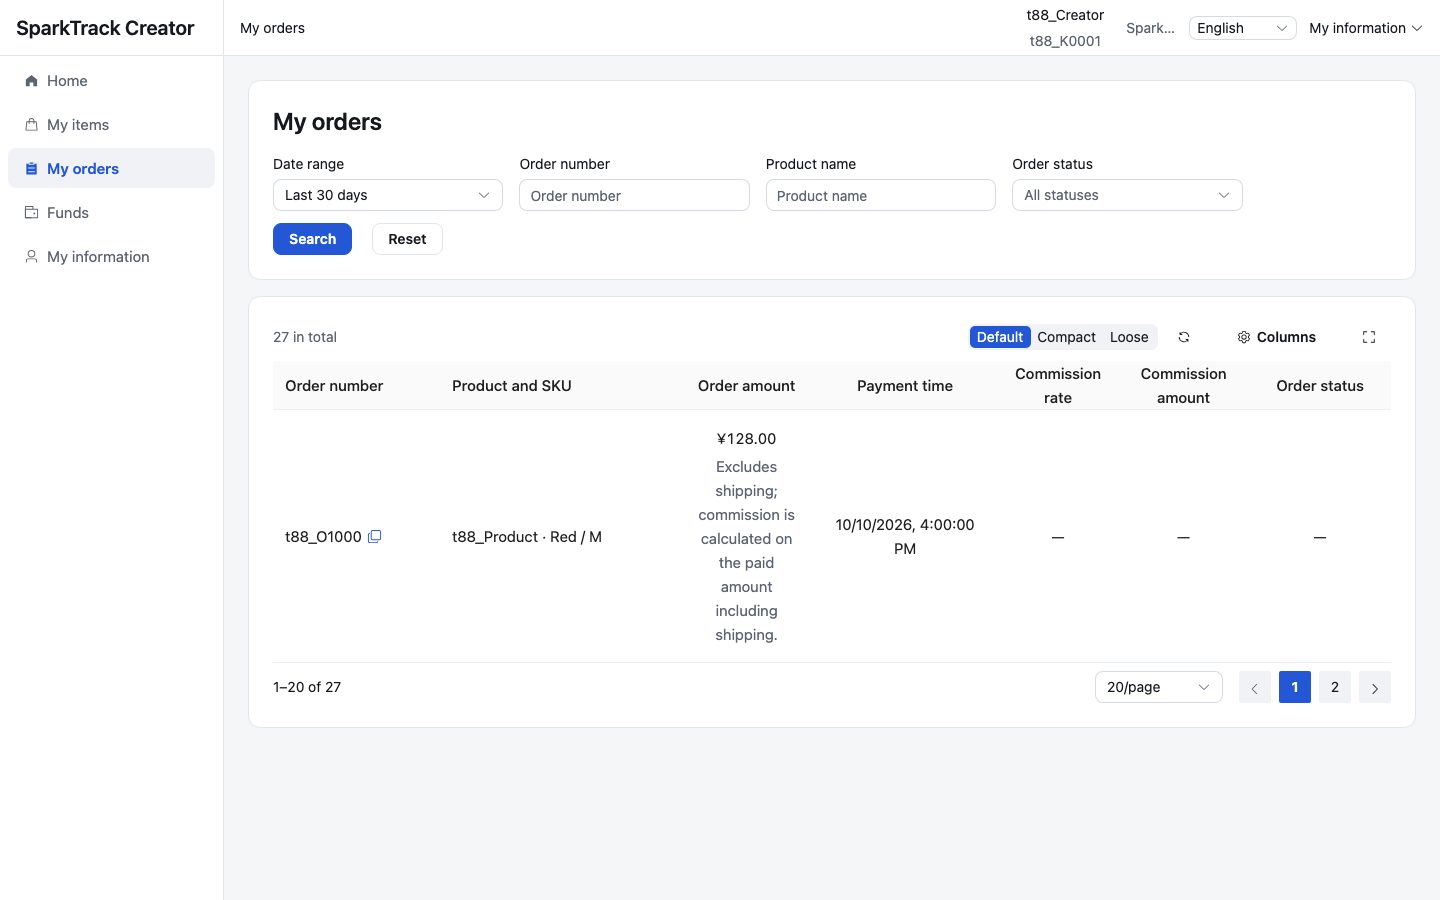
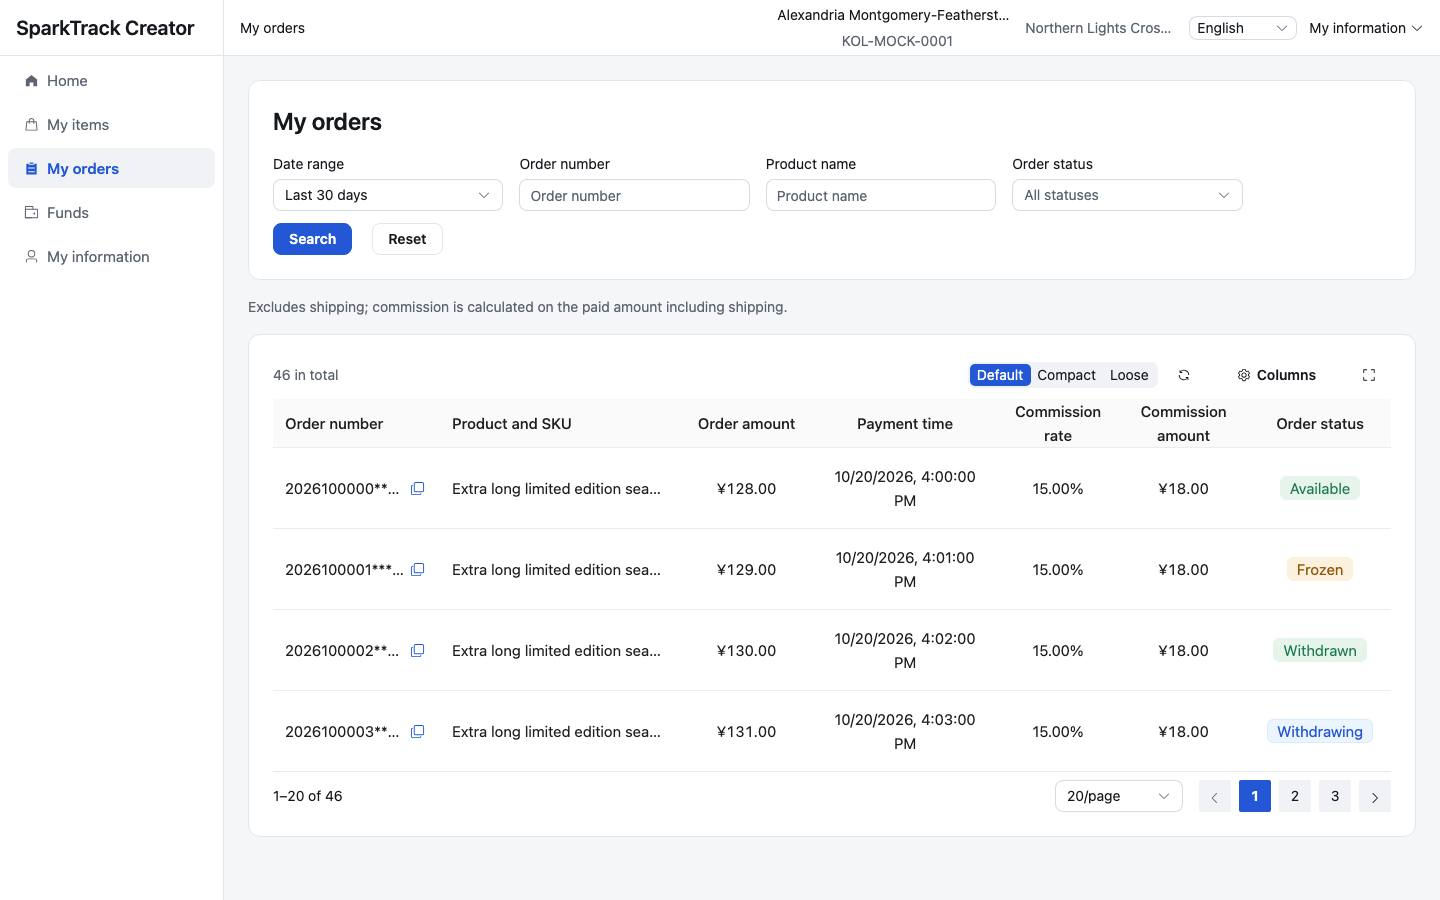
fix(kol): address task 88 review on orders note, header and account
- L-036: show the amount note once above the desktop table instead of in
  every row; phone cards keep theirs.
- L-045: drop NameCode's full width inside the header identity so short
  company names show in full; only the company name gives way when long.
- L-040: move NameCode into the first card under the page title.
- Funds: cover the failed and empty list states with the real DataTable.
- Refresh task 88 screenshots.

diff --git a/kol-portal/src/views/funds/__tests__/index.spec.ts b/kol-portal/src/views/funds/__tests__/index.spec.ts
@@ -4,7 +4,7 @@ import { createPinia } from "pinia";
 import { afterEach, beforeEach, describe, expect, it, vi } from "vitest";
 import * as api from "@/api/creator";
 import { uploadQrFile } from "@/api/payout-account";
-import { i18n } from "@/locales";
+import { enUS, i18n } from "@/locales";
 import { ApiError } from "@/utils/http/error";
 import FundsPage from "../index.vue";
 
@@ -71,19 +71,18 @@ afterEach(() => {
   document.body.innerHTML = "";
 });
 
-async function page() {
+const dataTableStub = {
+  name: "DataTable",
+  props: ["rows"],
+  template: '<div><slot v-for="row in rows" name="cell-amount" :row="row" /></div>'
+};
+
+async function page(options: { realTable?: boolean } = {}) {
   wrapper = mount(FundsPage, {
     attachTo: document.body,
     global: {
       plugins: [ElementPlus, i18n, createPinia()],
-      stubs: {
-        RouterLink: true,
-        DataTable: {
-          name: "DataTable",
-          props: ["rows"],
-          template: '<div><slot v-for="row in rows" name="cell-amount" :row="row" /></div>'
-        }
-      }
+      stubs: { RouterLink: true, ...(options.realTable ? {} : { DataTable: dataTableStub }) }
     }
   });
   await flushPromises();
@@ -97,6 +96,25 @@ async function submit(amount = "250.00") {
   await wrapper.get('[data-test="submit-withdrawal"]').trigger("click");
   await flushPromises();
 }
+
+describe("creator fund records list states", () => {
+  it("hides the empty copy and the pager when loading fails", async () => {
+    vi.mocked(api.getFundRecords).mockRejectedValue(new Error("network"));
+    await page({ realTable: true });
+    expect(wrapper.text()).toContain(enUS.funds.loadFailed);
+    expect(wrapper.text()).not.toContain(enUS.funds.empty);
+    expect(wrapper.find(".data-table__empty").exists()).toBe(false);
+    expect(wrapper.find(".data-table__pager").exists()).toBe(false);
+    expect(wrapper.find(".fund-records-pager").exists()).toBe(false);
+  });
+
+  it("shows the empty copy without a pager on an empty list", async () => {
+    await page({ realTable: true });
+    expect(wrapper.text()).toContain(enUS.funds.empty);
+    expect(wrapper.find(".data-table__pager").exists()).toBe(false);
+    expect(wrapper.find(".fund-records-pager").exists()).toBe(false);
+  });
+});
 
 describe("creator withdrawal application", () => {
   it("renders foreign-currency history amounts without a CNY symbol", async () => {

diff --git a/kol-portal/src/views/orders/__tests__/index.spec.ts b/kol-portal/src/views/orders/__tests__/index.spec.ts
@@ -107,17 +107,36 @@ describe("creator order details", () => {
     wrapper.unmount();
   });
 
-  it("explains that commission includes shipping in both desktop and phone layouts", async () => {
-    vi.mocked(getCreatorOrders).mockResolvedValue({ items: [order], total: 1, page: 1, size: 20 });
+  it("explains the amount once above the desktop table and on every phone card", async () => {
+    vi.mocked(getCreatorOrders).mockResolvedValue({
+      items: [order, order],
+      total: 2,
+      page: 1,
+      size: 20
+    });
     const wrapper = await mountPage();
-    const notes = wrapper.findAll(".amount-note");
-    expect(notes).toHaveLength(2);
-    expect(notes.every(note => note.text() === enUS.orders.amountNote)).toBe(true);
+    const desktopNotes = wrapper.findAll('[data-test="orders-amount-note"]');
+    expect(desktopNotes).toHaveLength(1);
+    expect(desktopNotes[0].text()).toBe(enUS.orders.amountNote);
+    // The note sits directly above the table, not inside any of its rows.
+    expect(desktopNotes[0].element.nextElementSibling).toBe(wrapper.get(".orders-table").element);
+    expect(wrapper.find(".orders-table .amount-note").exists()).toBe(false);
+    const cardNotes = wrapper.findAll(".order-card .amount-note");
+    expect(cardNotes).toHaveLength(2);
+    expect(cardNotes.every(note => note.text() === enUS.orders.amountNote)).toBe(true);
+    wrapper.unmount();
   });
 
-  it("hides the empty copy and the pager when loading fails", async () => {
+  it("shows no amount note without data", async () => {
+    const wrapper = await mountPage();
+    expect(wrapper.find('[data-test="orders-amount-note"]').exists()).toBe(false);
+    wrapper.unmount();
+  });
+
+  it("hides the empty copy, the amount note and the pager when loading fails", async () => {
     vi.mocked(getCreatorOrders).mockRejectedValue(new Error("network"));
     const wrapper = await mountPage();
+    expect(wrapper.find('[data-test="orders-amount-note"]').exists()).toBe(false);
     expect(wrapper.text()).toContain(enUS.orders.loadFailed);
     expect(wrapper.text()).not.toContain(enUS.orders.empty);
     expect(wrapper.find(".data-table__empty").exists()).toBe(false);

diff --git a/kol-portal/src/views/orders/index.vue b/kol-portal/src/views/orders/index.vue
@@ -209,6 +209,9 @@ onMounted(load);
       show-icon
       :title="t('orders.loadFailed')"
     />
+    <p v-if="orders.length && !error" class="orders-note" data-test="orders-amount-note">
+      {{ t("orders.amountNote") }}
+    </p>
     <DataTable
       table-id="kol-orders"
       class="orders-table"
@@ -226,10 +229,7 @@ onMounted(load);
       <template #cell-product="{ row }"
         ><span class="product-cell">{{ productLabel(row) }}</span></template
       >
-      <template #cell-payAmount="{ row }"
-        >{{ money(row.payAmount)
-        }}<small class="amount-note">{{ t("orders.amountNote") }}</small></template
-      >
+      <template #cell-payAmount="{ row }">{{ money(row.payAmount) }}</template>
       <template #cell-payTime="{ row }">{{ dateLabel(row.payTime) }}</template>
       <template #cell-rate="{ row }"
         ><span data-test="order-rates">{{ rate(row) }}</span></template
@@ -318,13 +318,19 @@ h1 {
   text-align: center;
   color: var(--tcrm-color-text-secondary);
 }
-.amount-note {
-  display: block;
-  margin-top: var(--tcrm-space-1);
+.amount-note,
+.orders-note {
   color: var(--tcrm-color-text-secondary);
   font-size: var(--tcrm-font-size-help);
   line-height: var(--tcrm-line-height-help);
+}
+.amount-note {
+  display: block;
+  margin-top: var(--tcrm-space-1);
   white-space: normal;
+}
+.orders-note {
+  margin: 0;
 }
 .product-cell {
   display: block;
@@ -364,7 +370,8 @@ h1 {
     height: auto;
     min-height: 0;
   }
-  .orders-table {
+  .orders-table,
+  .orders-note {
     display: none;
   }
   .order-cards {

diff --git a/kol-portal/src/views/account/__tests__/index.spec.ts b/kol-portal/src/views/account/__tests__/index.spec.ts
@@ -58,10 +58,17 @@ describe("creator profile validation", () => {
     }
   });
 
-  it("puts the page title at the top of the first card", async () => {
+  it("makes the title the top of the page, with the identity right below it in the first card", async () => {
     await page();
-    expect(wrapper.findAll(".section-card")[0].find("h1").exists()).toBe(true);
+    const firstCard = wrapper.findAll(".section-card")[0];
+    expect(wrapper.get(".account-page").element.firstElementChild).toBe(firstCard.element);
+    const header = firstCard.get(".el-card__header");
+    expect(header.element.firstElementChild?.tagName).toBe("H1");
     expect(wrapper.findAll(".section-card h1")).toHaveLength(1);
+    expect(header.get("h1").element.nextElementSibling).toBe(
+      header.get('[data-test="name-code"]').element
+    );
+    expect(wrapper.findAll('[data-test="name-code"]')).toHaveLength(1);
   });
 
   it("enforces the backend handle length instead of allowing 255 characters", async () => {

diff --git a/kol-portal/src/views/account/index.vue b/kol-portal/src/views/account/index.vue
@@ -188,10 +188,10 @@ function savePassword() {
     }}</el-button>
     <el-skeleton v-if="profileLoading && !session.kol" :rows="4" animated />
     <template v-else-if="session.kol">
-      <NameCode :name="session.kol.name" :code="session.kol.kolCode" />
       <el-card shadow="never" class="section-card">
         <template #header
           ><h1>{{ t("account.title") }}</h1>
+          <NameCode :name="session.kol.name" :code="session.kol.kolCode" />
           <h2>{{ t("account.personalInfo") }}</h2></template
         >
         <el-alert
@@ -446,8 +446,11 @@ h1 {
   line-height: var(--tcrm-line-height-title);
   font-weight: 600;
 }
-.section-card :deep(.el-card__header) h1 + h2 {
-  margin-top: var(--tcrm-space-2);
+.section-card :deep(.el-card__header) .name-code {
+  align-items: flex-start;
+  margin: var(--tcrm-space-2) 0;
+  font-weight: 400;
+  text-align: left;
 }
 .section-card :deep(.el-card__header) h2 {
   margin: 0;

diff --git a/kol-portal/src/layout/index.vue b/kol-portal/src/layout/index.vue
@@ -201,7 +201,11 @@ async function signOut() {
   color: var(--tcrm-color-text-secondary);
   overflow-wrap: anywhere;
 }
+/* NameCode fills its parent elsewhere; here that would take the company name's share of the row.
+   It also keeps its own width, so only the company name gives way to a long company name. */
 .shell__identity :deep(.name-code) {
+  flex-shrink: 0;
+  width: auto;
   min-width: 0;
   max-width: 240px;
 }
